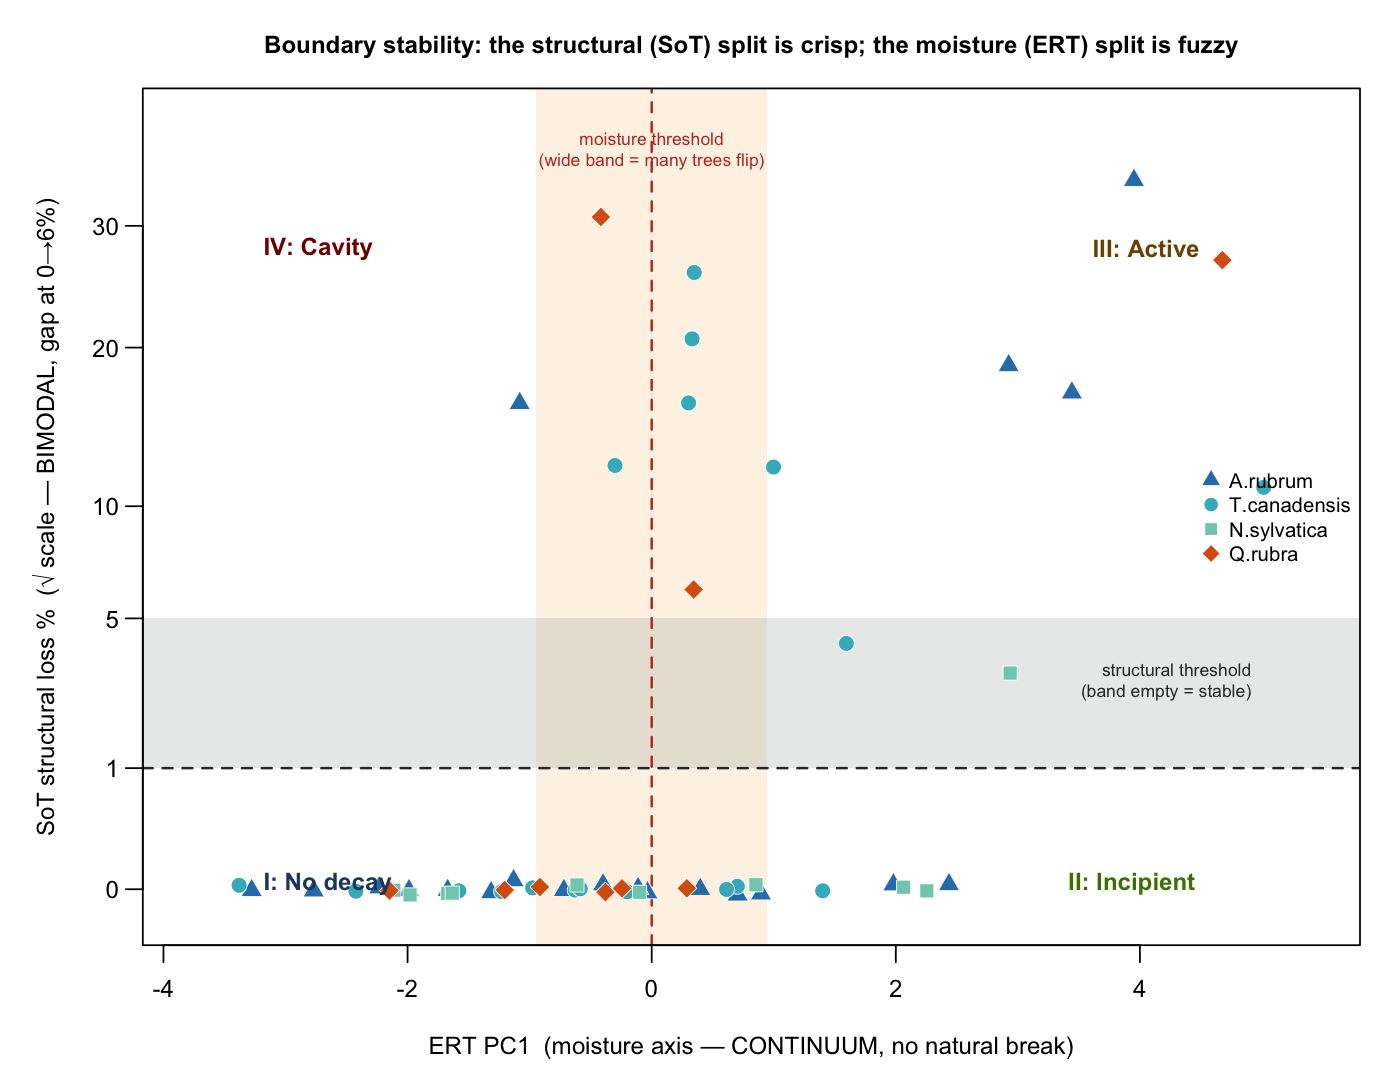
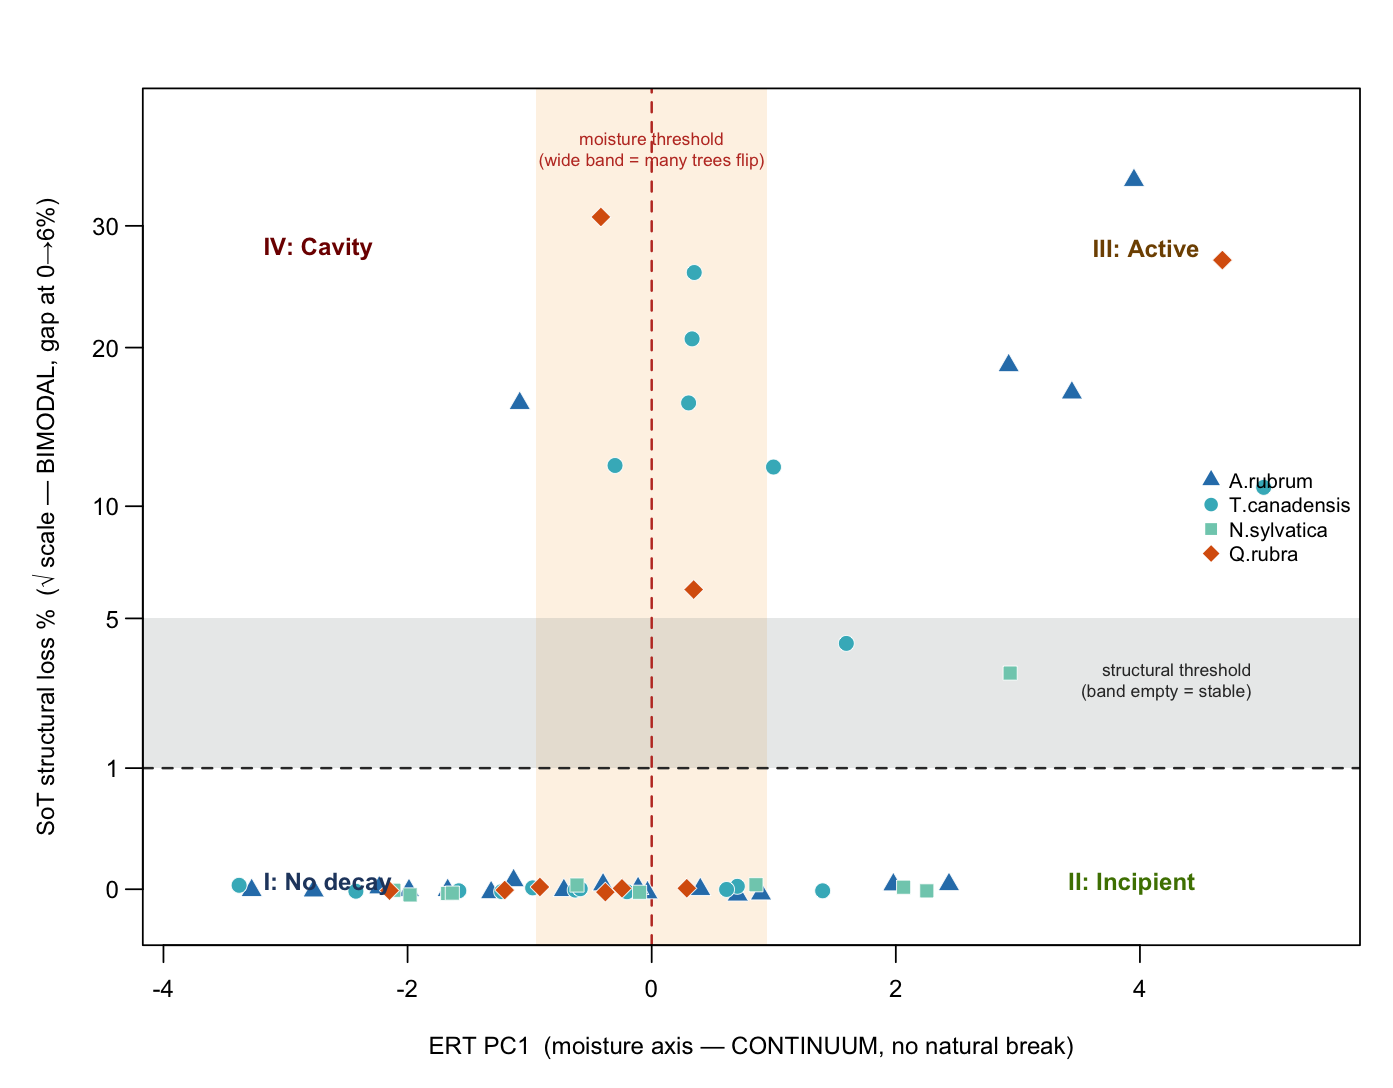
Publication-render the SI figure set, add the Fisher table, archive internal material
Per the figure plan: strip in-figure titles/subtitles down to bare panel
letters across the ten manuscript-bound figures (captions move to the SI
text); regenerate all of them; keep the paired all-scans montage for the
published scheme (headline removed, 150 dpi) and default paired_montages.R
to that scheme; add make_fisher_table.R -> CJFR-fisher-tests.csv (Table
S-FISHER); move the scheme montages, contact sheets, scan montage, and the
cavity / PC1-vs-CMA / decision-tree panels to output/archive/; point
compare.R's archived PC1-vs-CMA panel at the archive; README updated.

Changed region(s): [[0.1852, 0.0312, 0.8952, 0.0625]]

diff --git a/analysis/revision/README.md b/analysis/revision/README.md
@@ -40,8 +40,9 @@ classification, Otsu/GMM helpers, tomogram lookup).
 | `incipient.R` | Incipient-onset sensitivity on the species-median-referenced axis; comparison with structurally confirmed decay trees; 6-cell dead-band variant |
 | `rules.R`, `flow.R` | Consolidated classification rules; decision-tree diagram |
 | `cavity.R` | Active-vs-cavity (III/IV) inspection among structurally damaged trees; core-wetness criterion |
-| `montage.R`, `contact.R`, `grouped.R`, `paired_montages.R` | Tomogram visualisations: per-category exemplars, contact sheets, and SoT+ERT paired montages grouped by scheme |
+| `montage.R`, `contact.R`, `grouped.R`, `paired_montages.R` | Tomogram visualisations: per-category exemplars, contact sheets, and SoT+ERT paired montages grouped by scheme (`paired_montages.R` regenerates only the published-scheme montage by default) |
 | `make_assignments_table.R` | Writes `output/scheme_assignments.csv`: every tree's category under each scheme |
+| `make_fisher_table.R` | Writes `output/CJFR-fisher-tests.csv`: Fisher exact tests of the site incipient contrast at each threshold and for the generalists-only subset |
 
 ### Reviewer-requested additions
 
@@ -58,11 +59,18 @@ value read from every SoT tomogram (main survey + validation hemlocks).
 
 ## Outputs
 
-`output/` — all generated figures (threshold sweep, absolute-unit panels,
-boundary stability, binning comparison, 6-cell scheme, decision tree, scan
-montages, hurdle-model panels, sensor-count panels, vertical variation,
-green-zone panels) and tables (`CJFR-absolute-thresholds.csv`,
-`scheme_assignments.csv`, `CJFR-sensor-counts.csv`).
+`output/` — the manuscript-bound (SI candidate) figures and tables:
+threshold sweep, normalization comparison, absolute-unit panels, axis
+comparison, boundary stability, hurdle-model panels + diagnostics,
+sensor-count panels, vertical variation, green-zone panels, the paired
+all-scans montage (published scheme), the 6-cell variant (pending a
+decision), and tables `CJFR-absolute-thresholds.csv`,
+`scheme_assignments.csv`, `CJFR-sensor-counts.csv`,
+`CJFR-fisher-tests.csv`. Figures are publication-rendered: bare panel
+letters, no in-figure titles (captions live with the manuscript SI).
+`output/archive/` — internal inspection material not bound for the
+manuscript (scheme montages, contact sheets, scan montage, cavity /
+PC1-vs-CMA / decision-tree panels).
 
 ## Headline numbers
 
